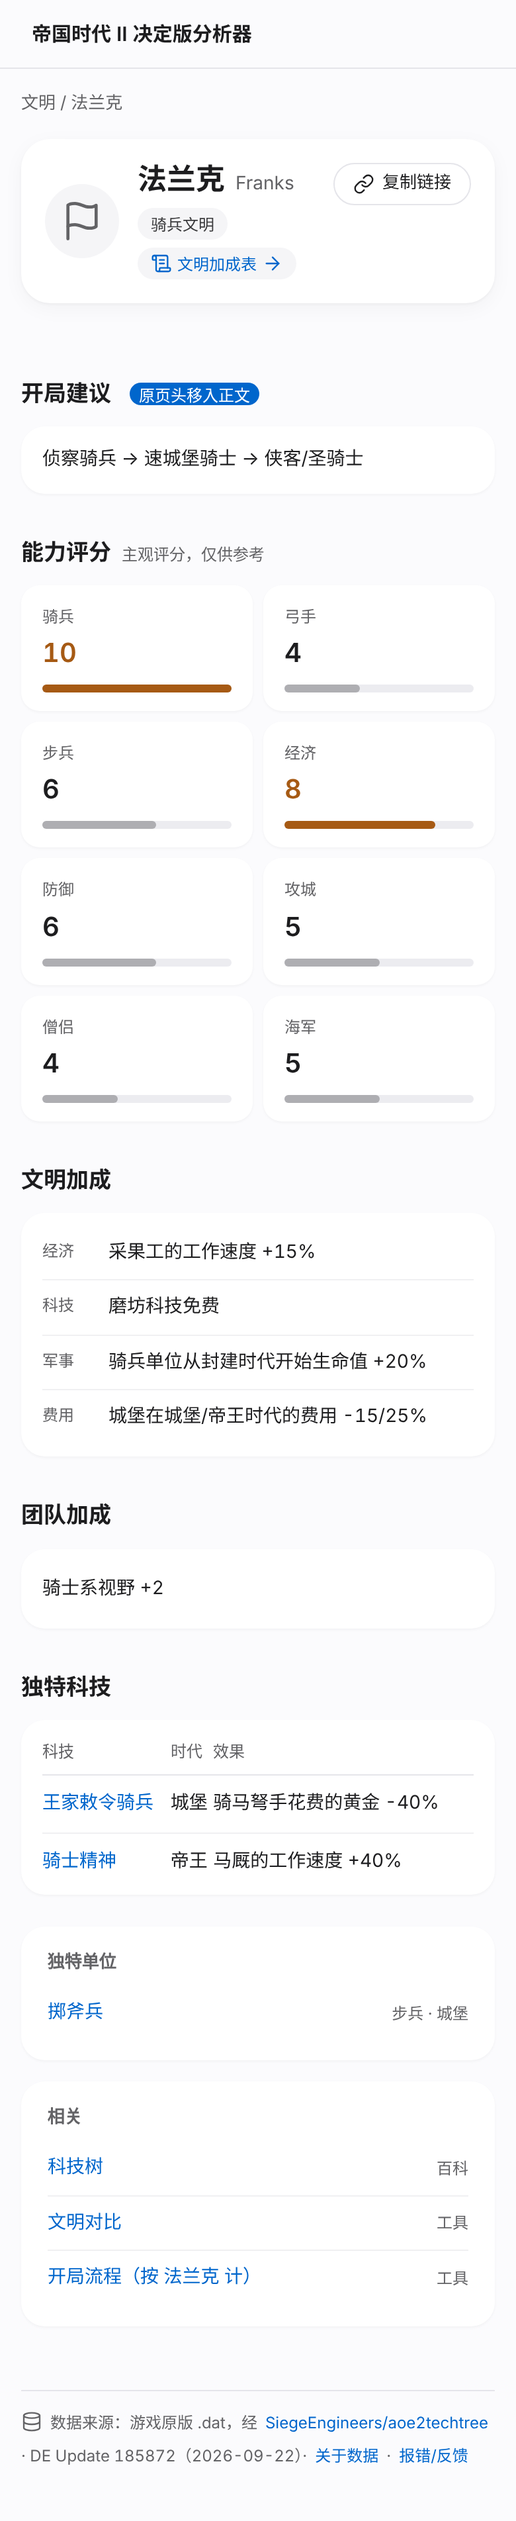
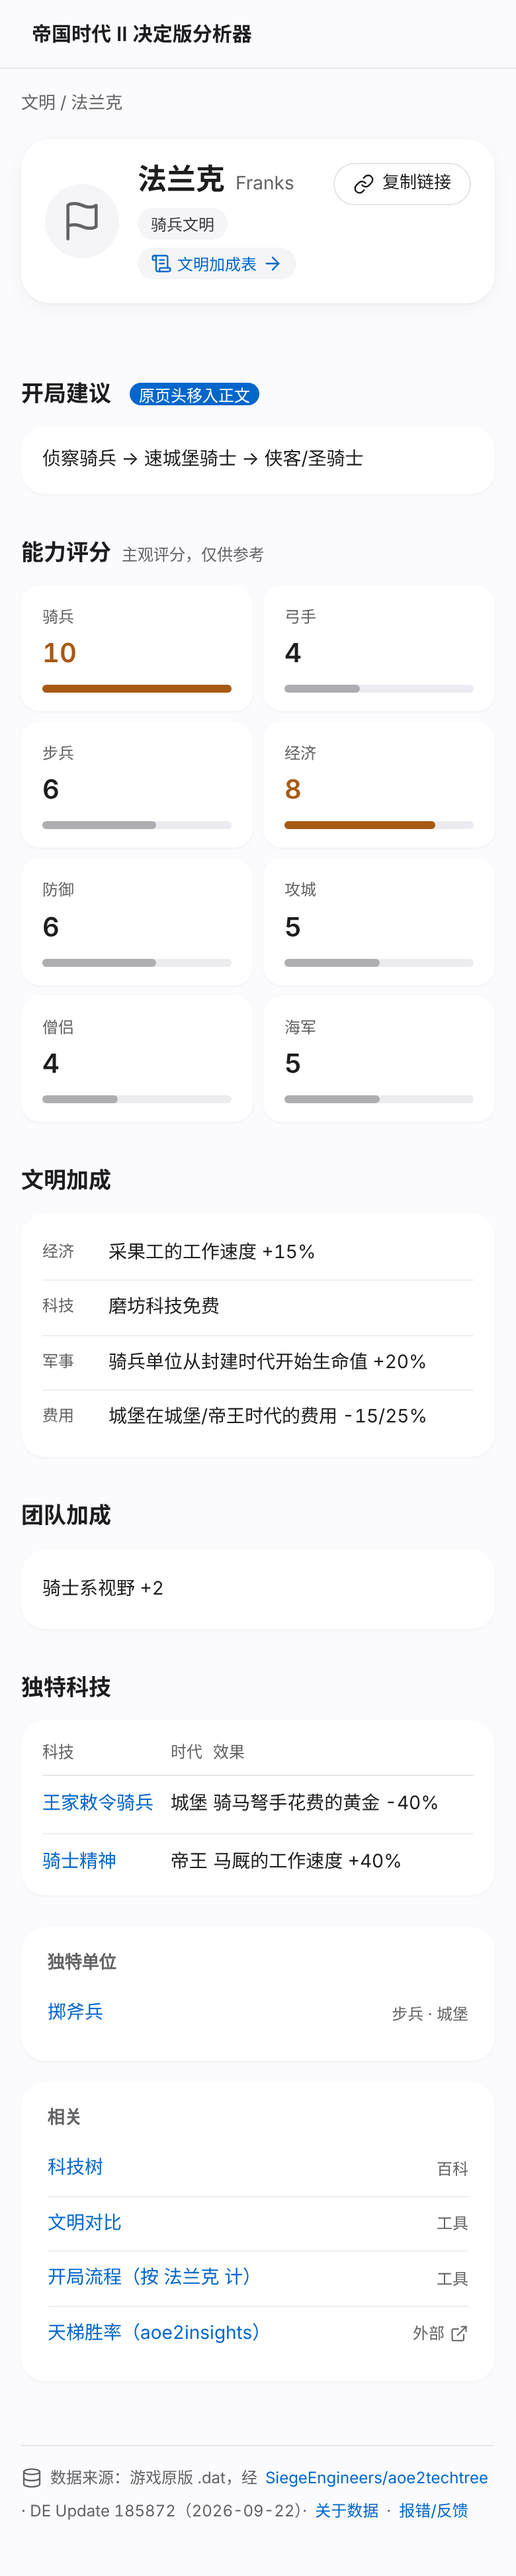
design(#33,#6): civ detail related links add aoe2insights ladder win-rate external link

diff --git a/docs/design/mockups/issue6-stage3/icons.js b/docs/design/mockups/issue6-stage3/icons.js
@@ -1,2 +1,2 @@
-const P={link:'<path d="M10 13a5 5 0 0 0 7.54.54l3-3a5 5 0 0 0-7.07-7.07l-1.72 1.71"/><path d="M14 11a5 5 0 0 0-7.54-.54l-3 3a5 5 0 0 0 7.07 7.07l1.71-1.71"/>',home:'<path d="M15 21v-8a1 1 0 0 0-1-1h-4a1 1 0 0 0-1 1v8"/><path d="M3 10a2 2 0 0 1 .709-1.528l7-5.999a2 2 0 0 1 2.582 0l7 5.999A2 2 0 0 1 21 10v9a2 2 0 0 1-2 2H5a2 2 0 0 1-2-2z"/>',sword:'<polyline points="14.5 17.5 3 6 3 3 6 3 17.5 14.5"/><line x1="13" x2="19" y1="19" y2="13"/><line x1="16" x2="20" y1="16" y2="20"/><line x1="19" x2="21" y1="21" y2="19"/>',shield:'<path d="M20 13c0 5-3.5 7.5-7.66 8.95a1 1 0 0 1-.67-.01C7.5 20.5 4 18 4 13V6a1 1 0 0 1 1-1c2 0 4.5-1.2 6.24-2.72a1.17 1.17 0 0 1 1.52 0C14.51 3.81 17 5 19 5a1 1 0 0 1 1 1z"/>',heart:'<path d="M19 14c1.49-1.46 3-3.21 3-5.5A5.5 5.5 0 0 0 16.5 3c-1.76 0-3 .5-4.5 2-1.5-1.5-2.74-2-4.5-2A5.5 5.5 0 0 0 2 8.5c0 2.3 1.5 4.05 3 5.5l7 7Z"/>',target:'<circle cx="12" cy="12" r="10"/><circle cx="12" cy="12" r="6"/><circle cx="12" cy="12" r="2"/>',clock:'<circle cx="12" cy="12" r="10"/><polyline points="12 6 12 12 16 14"/>',eye:'<path d="M2 12s3-7 10-7 10 7 10 7-3 7-10 7-10-7-10-7Z"/><circle cx="12" cy="12" r="3"/>',move:'<path d="M5 12h14"/><path d="m12 5 7 7-7 7"/>',flag:'<path d="M4 15s1-1 4-1 5 2 8 2 4-1 4-1V3s-1 1-4 1-5-2-8-2-4 1-4 1z"/><line x1="4" x2="4" y1="22" y2="15"/>',castle:'<path d="M22 20v-9H2v9a2 2 0 0 0 2 2h16a2 2 0 0 0 2-2Z"/><path d="M18 11V4H6v7"/><path d="M15 22v-4a3 3 0 0 0-3-3a3 3 0 0 0-3 3v4"/>',info:'<circle cx="12" cy="12" r="10"/><path d="M12 16v-4"/><path d="M12 8h.01"/>',db:'<ellipse cx="12" cy="5" rx="9" ry="3"/><path d="M3 5V19A9 3 0 0 0 21 19V5"/><path d="M3 12A9 3 0 0 0 21 12"/>',arrow:'<path d="M5 12h14"/><path d="m12 5 7 7-7 7"/>',flask:'<path d="M10 2v7.527a2 2 0 0 1-.211.896L4.72 20.55a1 1 0 0 0 .9 1.45h12.76a1 1 0 0 0 .9-1.45l-5.069-10.127A2 2 0 0 1 14 9.527V2"/><path d="M8.5 2h7"/>',inbox:'<polyline points="22 12 16 12 14 15 10 15 8 12 2 12"/><path d="M5.45 5.11 2 12v6a2 2 0 0 0 2 2h16a2 2 0 0 0 2-2v-6l-3.45-6.89A2 2 0 0 0 16.76 4H7.24a2 2 0 0 0-1.79 1.11z"/>',scroll:'<path d="M15 12h-5"/><path d="M15 8h-5"/><path d="M19 17V5a2 2 0 0 0-2-2H4"/><path d="M8 21h12a2 2 0 0 0 2-2v-1a1 1 0 0 0-1-1H11a1 1 0 0 0-1 1v1a2 2 0 1 1-4 0V5a2 2 0 1 0-4 0v2a1 1 0 0 0 1 1h3"/>'};
+const P={'external-link':'<path d="M15 3h6v6"/><path d="M10 14 21 3"/><path d="M18 13v6a2 2 0 0 1-2 2H5a2 2 0 0 1-2-2V8a2 2 0 0 1 2-2h6"/>',link:'<path d="M10 13a5 5 0 0 0 7.54.54l3-3a5 5 0 0 0-7.07-7.07l-1.72 1.71"/><path d="M14 11a5 5 0 0 0-7.54-.54l-3 3a5 5 0 0 0 7.07 7.07l1.71-1.71"/>',home:'<path d="M15 21v-8a1 1 0 0 0-1-1h-4a1 1 0 0 0-1 1v8"/><path d="M3 10a2 2 0 0 1 .709-1.528l7-5.999a2 2 0 0 1 2.582 0l7 5.999A2 2 0 0 1 21 10v9a2 2 0 0 1-2 2H5a2 2 0 0 1-2-2z"/>',sword:'<polyline points="14.5 17.5 3 6 3 3 6 3 17.5 14.5"/><line x1="13" x2="19" y1="19" y2="13"/><line x1="16" x2="20" y1="16" y2="20"/><line x1="19" x2="21" y1="21" y2="19"/>',shield:'<path d="M20 13c0 5-3.5 7.5-7.66 8.95a1 1 0 0 1-.67-.01C7.5 20.5 4 18 4 13V6a1 1 0 0 1 1-1c2 0 4.5-1.2 6.24-2.72a1.17 1.17 0 0 1 1.52 0C14.51 3.81 17 5 19 5a1 1 0 0 1 1 1z"/>',heart:'<path d="M19 14c1.49-1.46 3-3.21 3-5.5A5.5 5.5 0 0 0 16.5 3c-1.76 0-3 .5-4.5 2-1.5-1.5-2.74-2-4.5-2A5.5 5.5 0 0 0 2 8.5c0 2.3 1.5 4.05 3 5.5l7 7Z"/>',target:'<circle cx="12" cy="12" r="10"/><circle cx="12" cy="12" r="6"/><circle cx="12" cy="12" r="2"/>',clock:'<circle cx="12" cy="12" r="10"/><polyline points="12 6 12 12 16 14"/>',eye:'<path d="M2 12s3-7 10-7 10 7 10 7-3 7-10 7-10-7-10-7Z"/><circle cx="12" cy="12" r="3"/>',move:'<path d="M5 12h14"/><path d="m12 5 7 7-7 7"/>',flag:'<path d="M4 15s1-1 4-1 5 2 8 2 4-1 4-1V3s-1 1-4 1-5-2-8-2-4 1-4 1z"/><line x1="4" x2="4" y1="22" y2="15"/>',castle:'<path d="M22 20v-9H2v9a2 2 0 0 0 2 2h16a2 2 0 0 0 2-2Z"/><path d="M18 11V4H6v7"/><path d="M15 22v-4a3 3 0 0 0-3-3a3 3 0 0 0-3 3v4"/>',info:'<circle cx="12" cy="12" r="10"/><path d="M12 16v-4"/><path d="M12 8h.01"/>',db:'<ellipse cx="12" cy="5" rx="9" ry="3"/><path d="M3 5V19A9 3 0 0 0 21 19V5"/><path d="M3 12A9 3 0 0 0 21 12"/>',arrow:'<path d="M5 12h14"/><path d="m12 5 7 7-7 7"/>',flask:'<path d="M10 2v7.527a2 2 0 0 1-.211.896L4.72 20.55a1 1 0 0 0 .9 1.45h12.76a1 1 0 0 0 .9-1.45l-5.069-10.127A2 2 0 0 1 14 9.527V2"/><path d="M8.5 2h7"/>',inbox:'<polyline points="22 12 16 12 14 15 10 15 8 12 2 12"/><path d="M5.45 5.11 2 12v6a2 2 0 0 0 2 2h16a2 2 0 0 0 2-2v-6l-3.45-6.89A2 2 0 0 0 16.76 4H7.24a2 2 0 0 0-1.79 1.11z"/>',scroll:'<path d="M15 12h-5"/><path d="M15 8h-5"/><path d="M19 17V5a2 2 0 0 0-2-2H4"/><path d="M8 21h12a2 2 0 0 0 2-2v-1a1 1 0 0 0-1-1H11a1 1 0 0 0-1 1v1a2 2 0 1 1-4 0V5a2 2 0 1 0-4 0v2a1 1 0 0 0 1 1h3"/>'};
 document.querySelectorAll('[data-i]').forEach(e=>e.outerHTML='<svg class="i" aria-hidden="true" viewBox="0 0 24 24">'+P[e.dataset.i]+'</svg>');

diff --git a/docs/design/mockups/issue6-stage3/civ.html b/docs/design/mockups/issue6-stage3/civ.html
@@ -20,5 +20,5 @@
 <h2>独特科技</h2><div class=card><table><tr><th>科技</th><th>时代</th><th>效果</th></tr><tr><td><a href=#>王家敕令骑兵</a></td><td>城堡</td><td>骑马弩手花费的黄金 -40%</td></tr><tr><td><a href=#>骑士精神</a></td><td>帝王</td><td>马厩的工作速度 +40%</td></tr></table></div>
 </div><div class=side><div style="height:42px"></div>
 <div class="card rel"><h3>独特单位</h3><a href=#>掷斧兵 <span class=t>步兵 · 城堡</span></a></div>
-<div class="card rel"><h3>相关</h3><a href=#>科技树 <span class=t>百科</span></a><a href=#>文明对比 <span class=t>工具</span></a><a href=#>开局流程（按 法兰克 计） <span class=t>工具</span></a></div>
+<div class="card rel"><h3>相关</h3><a href=#>科技树 <span class=t>百科</span></a><a href=#>文明对比 <span class=t>工具</span></a><a href=#>开局流程（按 法兰克 计） <span class=t>工具</span></a><a href="https://www.aoe2insights.com/civilization/franks/" target=_blank rel="noopener noreferrer">天梯胜率（aoe2insights） <span class="t ext">外部 <i data-i="external-link"></i></span></a></div>
 </div></div><div class="src"><i data-i="db"></i>数据来源：游戏原版 .dat，经 <a href="#">SiegeEngineers/aoe2techtree</a> · DE Update 185872（2026-09-22）· <a href="#">关于数据</a> · <a href="#">报错/反馈</a></div></div><script src=icons.js></script>

diff --git a/docs/design/mockups/issue6-stage3/t.css b/docs/design/mockups/issue6-stage3/t.css
@@ -37,3 +37,5 @@ ul.b{margin:0;padding:6px 0;list-style:none}ul.b li{padding:9px 0;border-bottom:
 .hdr{align-self:start}.copy{font:inherit;font-size:13px;height:32px;padding:0 14px;border-radius:999px;border:1px solid var(--bd);background:var(--surf);color:var(--tx);display:inline-flex;gap:6px;align-items:center}
 .bar i.n{background:#aeaeb2}
 @media (max-width:600px){.hd{grid-template-columns:56px 1fr auto}.hdr{grid-column:auto}.copy span{display:none}}
+
+.rel span.ext{display:inline-flex;align-items:center;gap:4px}.rel span.ext .i{width:14px;height:14px}

diff --git a/docs/design/mockups/issue6-stage3/SPEC.md b/docs/design/mockups/issue6-stage3/SPEC.md
@@ -5,3 +5,10 @@
 3. 琥珀色关键数每页最多 2 个：单位=生命值、攻击；文明=骑兵 10、经济 8（其余评分条改中性灰 #aeaeb2）；建筑=生命值、护甲；科技=两项效果。
 4. 新增 390 样稿：兵营（buildings.json id 12）、织布机（techs.json id 22）。数据来自 main@8510871 的 src/data/*.json，可训练单位为节选。
 Design System C · Lucide · muted #636366 · AA。
+
+## 补充（#33，Steve 已定：只做外链）
+文明详情页「相关」区末尾加一条：
+- 文字「天梯胜率（aoe2insights）」；右侧类型标签「外部」+ Lucide `external-link` 14px，颜色 `--color-muted`（#636366）。
+- 链接 `https://www.aoe2insights.com/civilization/{civ英文名小写}/`（例：`/civilization/franks/`、`/civilization/byzantines/`，已打开核过返回 200），`target="_blank" rel="noopener noreferrer"`。
+- **不写更新日期**，不嵌入、不缓存对方数据，不显示站内胜率或分段。
+- 点击区域沿用相关区行高（≥44px）；电脑和手机同一结构。
